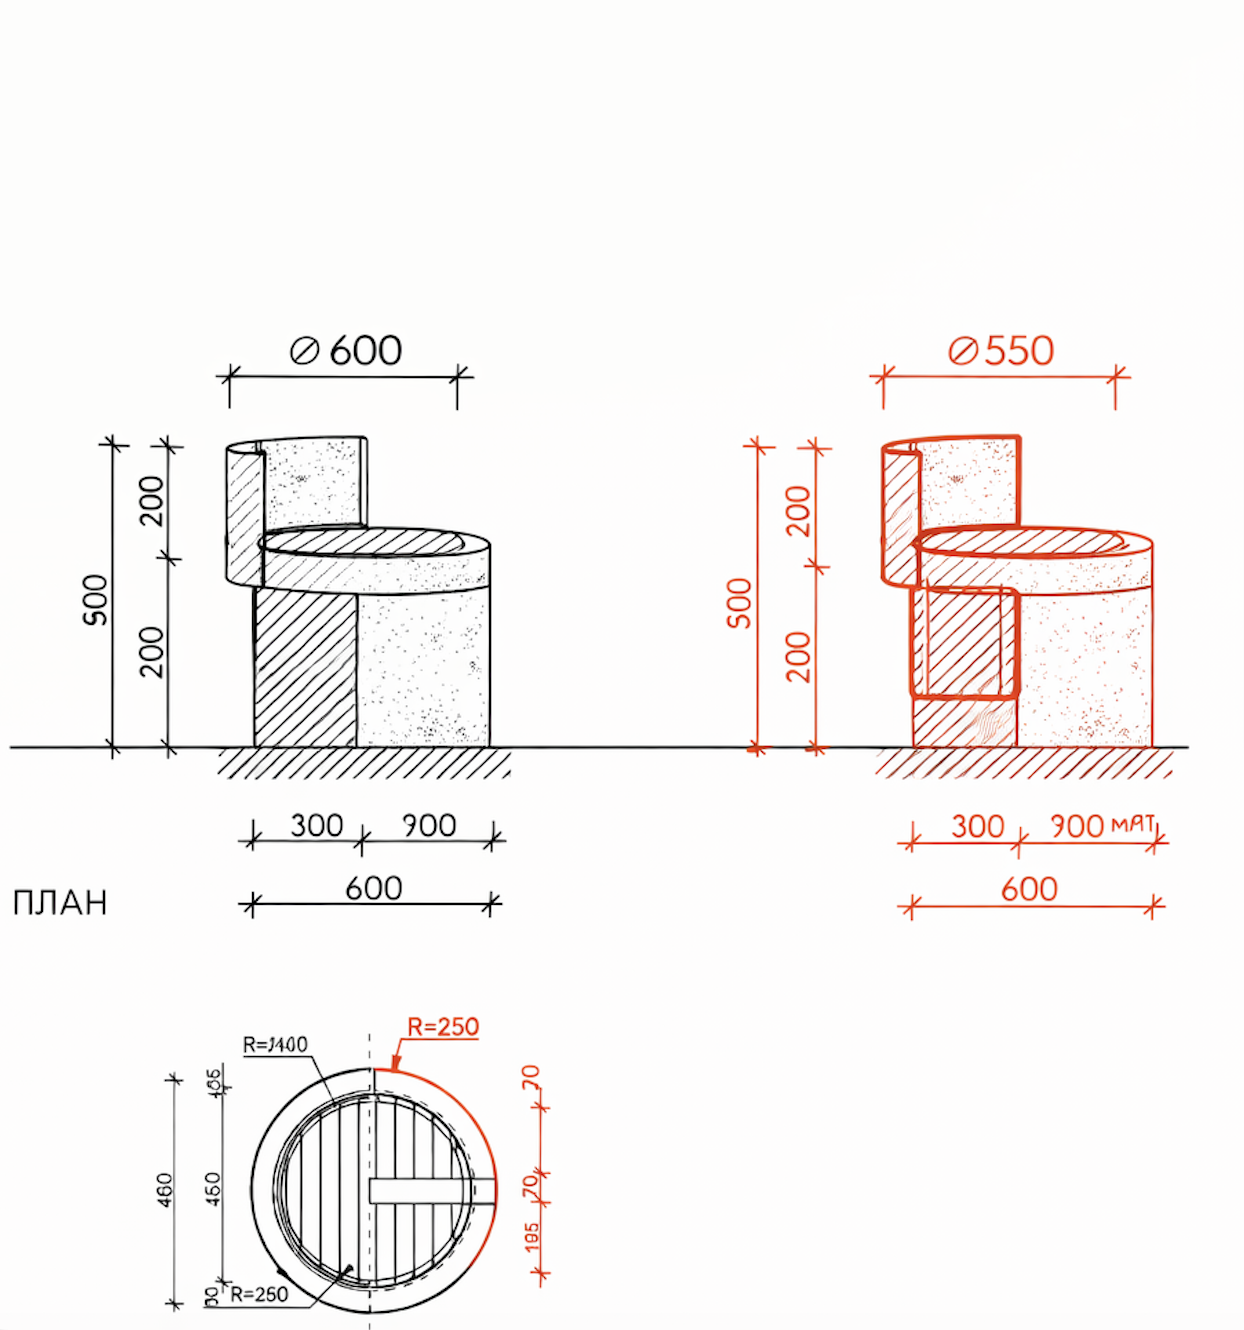
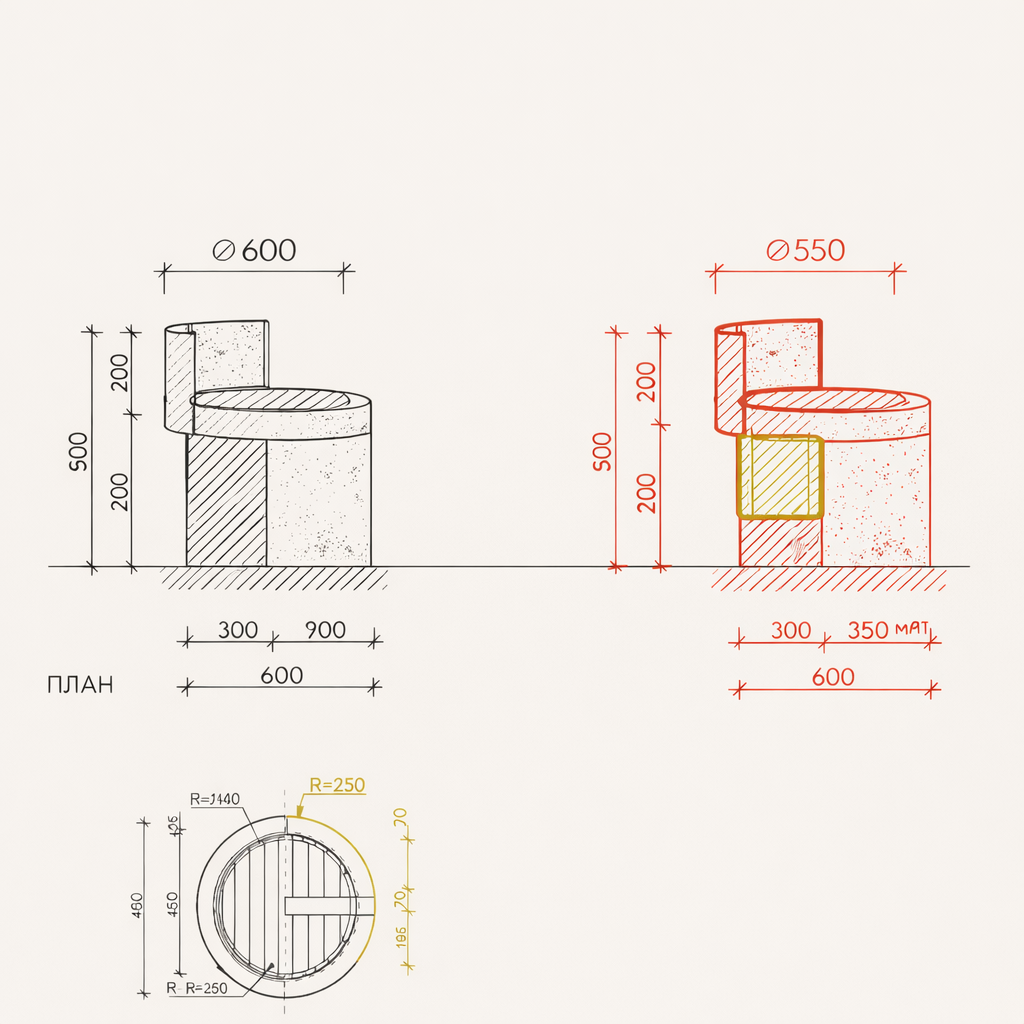
fix: Slide09 — restore all text in left column + drawing right
Data restored:
- lead trimmed: removed 'Это нормально.'
- problem paragraphs: back (2 lines)
- solutionTitle, items (3), final: back
- drawing path kept

Layout: 55% left (all text) / 45% right (drawing only)

Left column top-to-bottom:
1. H1 'Работа с изменениями'
2. Lead 'Проект в процессе трансформируется.'
3. Problem paragraphs (muted)
4. Solution mini-section: title (bold) → items (dash+muted) → final (bold black)

Right column: SL9.png only, 90% width, vertically centered
No card/shadow/background — drawing sits on slide bg directly

Updated SL9.png to latest version from main

Changed region(s): [[0.0312, 0.2188, 0.9375, 0.6875], [0.125, 0.75, 0.4375, 1.0], [0.0, 0.6562, 0.125, 0.6875]]

diff --git a/presentation/src/slides/Slide09ChangeManagement.module.css b/presentation/src/slides/Slide09ChangeManagement.module.css
@@ -6,10 +6,10 @@
   padding-block: var(--safe-y);
   display: flex;
   align-items: center;
-  gap: 0;
+  gap: clamp(32px, 4vw, 56px);
 }
 
-/* ===== Left — text ===== */
+/* ===== Left — all text ===== */
 
 .left {
   width: 55%;
@@ -17,7 +17,6 @@
   display: flex;
   flex-direction: column;
   justify-content: center;
-  padding-right: clamp(32px, 4vw, 56px);
 }
 
 .eyebrow {
@@ -27,7 +26,7 @@
   letter-spacing: 0.12em;
   text-transform: uppercase;
   color: var(--muted);
-  margin-bottom: clamp(20px, 3vh, 40px);
+  margin-bottom: clamp(16px, 2vh, 28px);
 }
 
 .title {
@@ -43,44 +42,89 @@
 .lead {
   font-family: var(--font-primary);
   font-size: var(--h2);
-  font-weight: 400;
+  font-weight: 500;
   line-height: 1.3;
+  color: var(--text);
+  margin: clamp(14px, 1.8vh, 24px) 0 0 0;
+}
+
+/* Problem paragraphs */
+.problem {
+  display: flex;
+  flex-direction: column;
+  gap: clamp(6px, 0.8vh, 12px);
+  margin-top: clamp(16px, 2vh, 28px);
+  max-width: 48ch;
+}
+
+.problem p {
+  font-family: var(--font-primary);
+  font-size: var(--p);
+  font-weight: 400;
+  line-height: 1.55;
   color: var(--muted);
-  margin: clamp(20px, 2.5vh, 36px) 0 0 0;
-  max-width: 44ch;
+  margin: 0;
 }
 
-/* ===== Divider ===== */
+/* Solution mini-section */
+.solution {
+  margin-top: clamp(20px, 2.5vh, 36px);
+}
 
-.divider {
-  width: 1px;
-  align-self: stretch;
-  background: var(--cement);
+.solutionTitle {
+  font-family: var(--font-primary);
+  font-size: var(--p);
+  font-weight: 600;
+  line-height: 1.4;
+  color: var(--text);
+  margin: 0;
+}
+
+.items {
+  display: flex;
+  flex-direction: column;
+  gap: clamp(4px, 0.6vh, 10px);
+  margin-top: clamp(8px, 1vh, 14px);
+}
+
+.item {
+  display: flex;
+  align-items: baseline;
+  gap: 0.6em;
+  font-family: var(--font-primary);
+  font-size: var(--p);
+  font-weight: 400;
+  line-height: 1.45;
+  color: var(--muted);
+}
+
+.dash {
   flex-shrink: 0;
-  margin-top: 12vh;
+  color: var(--ochre);
+  opacity: 0.5;
+  user-select: none;
 }
 
-/* ===== Right — drawing ===== */
+.final {
+  font-family: var(--font-primary);
+  font-size: var(--p);
+  font-weight: 700;
+  line-height: 1.45;
+  color: var(--text);
+  margin: clamp(12px, 1.5vh, 20px) 0 0 0;
+}
+
+/* ===== Right — drawing only ===== */
 
 .right {
   flex: 1;
   display: flex;
-  align-items: flex-start;
-  justify-content: flex-end;
-  padding-left: clamp(24px, 3vw, 48px);
-  padding-top: 6vh;
-}
-
-.drawingCard {
-  width: 85%;
-  background: #EDEBE6;
-  padding: clamp(20px, 2.5vw, 32px);
-  box-shadow: 0 2px 16px rgba(0, 0, 0, 0.04);
+  align-items: center;
+  justify-content: center;
 }
 
 .drawing {
-  width: 100%;
+  width: 90%;
   height: auto;
   display: block;
-  filter: contrast(1.08);
 }

diff --git a/presentation/src/slides/Slide09ChangeManagement.tsx b/presentation/src/slides/Slide09ChangeManagement.tsx
@@ -7,16 +7,35 @@ import styles from './Slide09ChangeManagement.module.css'
 export function Slide09ChangeManagement() {
   return (
     <div className={styles.slide}>
+      {/* Left — all text */}
       <div className={styles.left}>
         <span className={styles.eyebrow}>{slide09.eyebrow}</span>
         <h1 className={styles.title}>{slide09.title}</h1>
         <p className={styles.lead}>{slide09.lead}</p>
-      </div>
-      <div className={styles.divider} />
-      <div className={styles.right}>
-        <div className={styles.drawingCard}>
-          <img src={assetPath(slide09.drawing)} alt="" className={styles.drawing} />
+
+        <div className={styles.problem}>
+          {slide09.problem.map((p, i) => (
+            <p key={i}>{p}</p>
+          ))}
         </div>
+
+        <div className={styles.solution}>
+          <p className={styles.solutionTitle}>{slide09.solutionTitle}</p>
+          <div className={styles.items}>
+            {slide09.items.map((item, i) => (
+              <div key={i} className={styles.item}>
+                <span className={styles.dash}>—</span>
+                <span>{item}</span>
+              </div>
+            ))}
+          </div>
+          <p className={styles.final}>{slide09.final}</p>
+        </div>
+      </div>
+
+      {/* Right — drawing only */}
+      <div className={styles.right}>
+        <img src={assetPath(slide09.drawing)} alt="" className={styles.drawing} />
       </div>
     </div>
   )

diff --git a/presentation/src/data/slides.ts b/presentation/src/data/slides.ts
@@ -133,7 +133,18 @@ export const slide10 = {
 export const slide09 = {
   eyebrow: '09 / Гибкость',
   title: 'Работа с изменениями',
-  lead: 'Проект в процессе трансформируется. Это нормально.',
+  lead: 'Проект в процессе трансформируется.',
+  problem: [
+    'Проблема возникает, когда решения не рассчитаны на изменения.',
+    'Когда любое уточнение тянет за собой переделку конструкции, перерасчёт и пересогласование.',
+  ],
+  solutionTitle: 'В работу закладывается конструктивная гибкость.',
+  items: [
+    'адаптация размеров',
+    'изменение конфигураций',
+    'корректировка элементов',
+  ],
+  final: 'Без остановки процесса и потери качества.',
   drawing: '/images/sl9-drawing.png',
 }
 
